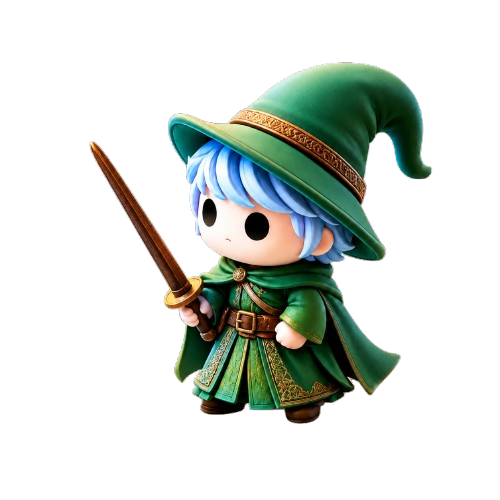
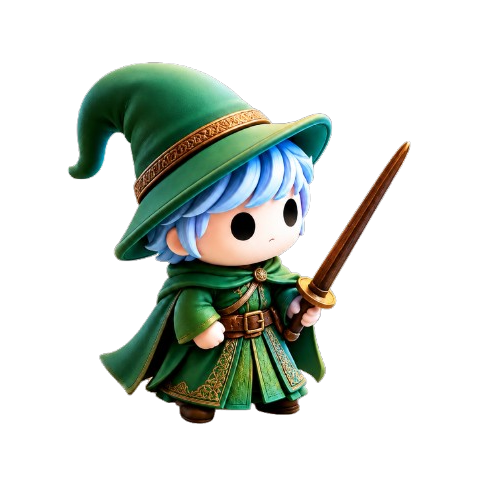
making dice

diff --git a/main.py b/main.py
@@ -1,6 +1,10 @@
 import pygame as pg
+import random as random
 pg.init()
 clock=pg.time.Clock()
+dice_value = 1
+rolling = False
+roll_start_time = 0
 class Questions:
     def __init__(self):
         pass
@@ -24,26 +28,35 @@ class Player:
         self.image=(pg.image.load("images/player.png"))
         self.image=pg.transform.scale(self.image,(100,100))
         self.rect=self.image.get_rect(midbottom=(110,110 ))
+    black=(0,0,0)
+    white=(225,225,225)
+    x,y=(100,100)
 screen = Screen(1000, 500)
 player=Player()
 player2=Player2()
 board=Background()
+black=(0,0,0)
 while True:
     for event in pg.event.get():
         if event.type==pg.QUIT:
             pg.quit()#tell python to shut down all the pygame moudel 
             exit()#telling python to stop running the entire file
-        screen.screen.blit(board.board,board.rect)
-        screen.screen.blit(player.image,player.rect)
-        screen.screen.blit(player2.image,player2.rect)
-        key =pg.key.get_pressed()
-        if key[pg.K_RIGHT]:
-            player.rect.x+=10
-        if key[pg.K_LEFT]:
-            player.rect.x-=10
-        if key[pg.K_d]:
-            player2.rect.x+=10
-        if key[pg.K_a]:
-            player2-=10      
-        pg.display.update()
-        clock.tick(60)#Consistent Game Speed
+        if event.type==pg.KEYDOWN:
+            if event.key==pg.K_SPACE:
+                rolling=True
+                roll_start_time=pg.time.get_ticks()
+    screen.screen.blit(board.board,board.rect)
+    screen.screen.blit(player.image,player.rect)
+    screen.screen.blit(player2.image,player2.rect)
+    pg.draw.rect(screen.screen,black, (900,50,70,70))
+    key =pg.key.get_pressed()
+    if key[pg.K_RIGHT]:
+        player.rect.x+=10
+    if key[pg.K_LEFT]:
+        player.rect.x-=10
+    if key[pg.K_d]:
+        player2.rect.x+=10
+    if key[pg.K_a]:
+        player2.rect.x-=10      
+    pg.display.update()
+    clock.tick(60)#Consistent Game Speed